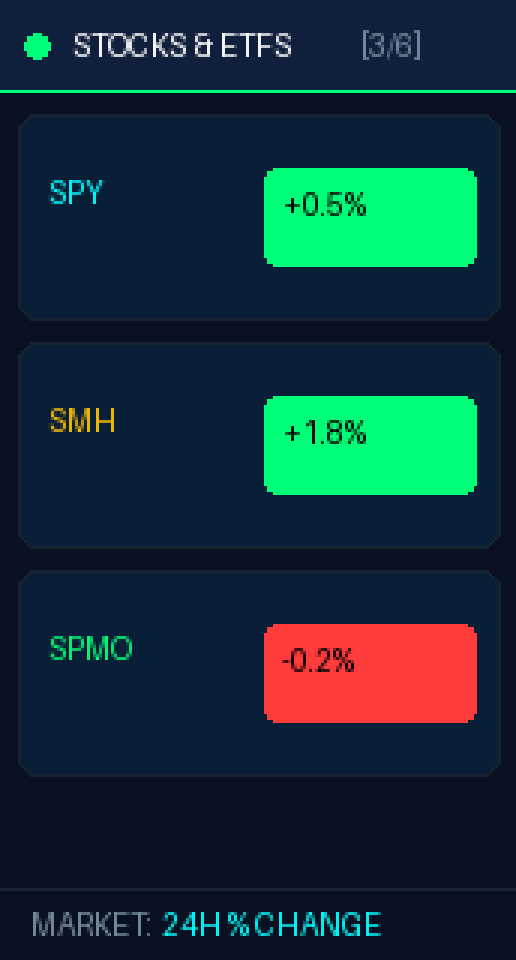
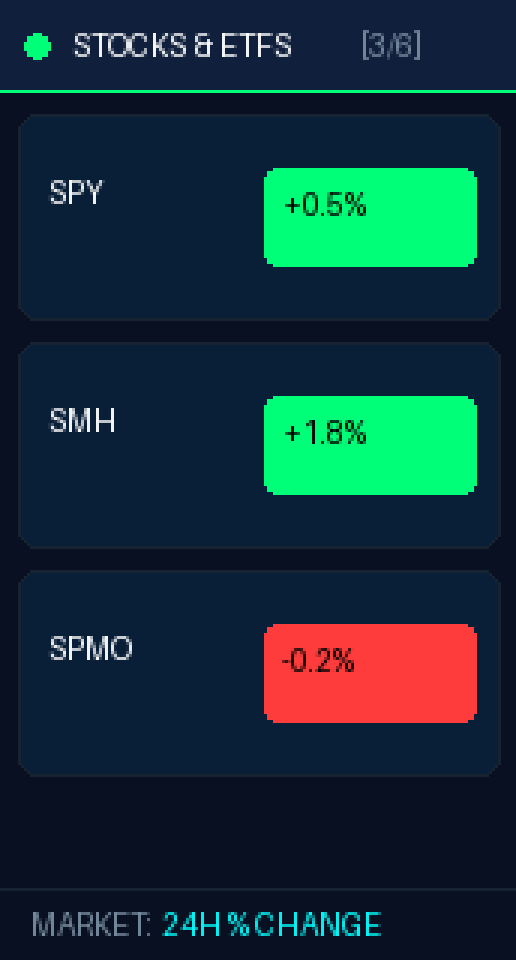
Update stock ticker symbols to crisp white text

Changed region(s): [[0.093, 0.4062, 0.2171, 0.4688], [0.093, 0.6562, 0.2791, 0.6875], [0.093, 0.1875, 0.2171, 0.2188]]

diff --git a/src/main.cpp b/src/main.cpp
@@ -80,7 +80,7 @@ struct WeatherInfo {
   uint32_t last_update;
 } current_weather;
 
-// Stock Data Structure (SPY, SMH, SPMO - Percentage Badges Only!)
+// Stock Data Structure (SPY, SMH, SPMO)
 struct StockQuote {
   String symbol;
   float change_pct;
@@ -217,7 +217,7 @@ void fetchWeatherData() {
   http.end();
 }
 
-// Fetch SPY, SMH, SPMO Stock Quotes (Percentage Badges Only)
+// Fetch SPY, SMH, SPMO Stock Quotes
 void fetchStockData() {
   if (WiFi.status() != WL_CONNECTED) return;
   HTTPClient http;
@@ -378,7 +378,7 @@ void drawMoonSphere(int cx, int cy, int radius, float phaseFraction) {
 }
 
 // -------------------------------------------------------------
-// PERFECTED UN-CLUTTERED RENDERERS FOR ALL 6 DASHBOARD SCREENS
+// RENDERERS FOR ALL 6 DASHBOARD SCREENS
 // -------------------------------------------------------------
 
 // 1. FLIGHT TRACKER
@@ -477,7 +477,7 @@ void renderWeatherScreen() {
   canvas->setTextColor(c_cyan); canvas->setCursor(38, 304); canvas->print(current_location_name);
 }
 
-// 3. STOCKS & ETFS (SPY, SMH, SPMO - PERCENTAGE BADGES ONLY! NO NUMERIC PRICES)
+// 3. STOCKS & ETFS (SPY, SMH, SPMO - CLEAN WHITE TICKER SYMBOLS!)
 void renderStocksScreen() {
   canvas->fillScreen(0x0821);
   uint16_t c_cyan = 0x07FF, c_amber = 0xFBE0, c_green = 0x07E0, c_white = 0xFFFF, c_gray = 0x7BEF, c_dark = 0x18E3, c_red = 0xF800;
@@ -485,25 +485,25 @@ void renderStocksScreen() {
   canvas->setTextColor(c_white); canvas->setTextSize(1); canvas->setCursor(24, 11); canvas->print("STOCKS & ETFS");
   canvas->setTextColor(c_gray); canvas->setCursor(120, 11); canvas->print("[3/6]");
 
-  // Perfected Uncrowded Stock Card Renderer (Shows ONLY Symbol & Green/Red Pct Badge!)
-  auto drawCleanStockCard = [&](int y, StockQuote sq, uint16_t accentColor) {
+  // Clean White Ticker Names with Colored Percentage Badges!
+  auto drawCleanStockCard = [&](int y, StockQuote sq) {
     canvas->drawRoundRect(6, y, SCREEN_W - 12, 68, 6, c_dark);
     canvas->fillRoundRect(7, y + 1, SCREEN_W - 14, 66, 6, 0x0963);
 
-    // Large Bold Symbol on Left
-    canvas->setTextColor(accentColor); canvas->setTextSize(3); canvas->setCursor(16, y + 22);
+    // Crisp White Ticker Symbol
+    canvas->setTextColor(c_white); canvas->setTextSize(3); canvas->setCursor(16, y + 22);
     canvas->print(sq.symbol);
 
-    // Clean Colored Percentage Badge on Right
+    // Colored Percentage Badge on Right
     uint16_t badgeBg = sq.change_pct >= 0 ? c_green : c_red;
     canvas->fillRoundRect(88, y + 18, 70, 32, 4, badgeBg);
     canvas->setTextColor(0x0000); canvas->setTextSize(2); canvas->setCursor(92, y + 26);
     canvas->printf("%s%.1f%%", sq.change_pct >= 0 ? "+" : "", sq.change_pct);
   };
 
-  drawCleanStockCard(38,  current_stocks.spy,  c_cyan);
-  drawCleanStockCard(114, current_stocks.smh,  c_amber);
-  drawCleanStockCard(190, current_stocks.spmo, c_green);
+  drawCleanStockCard(38,  current_stocks.spy);
+  drawCleanStockCard(114, current_stocks.smh);
+  drawCleanStockCard(190, current_stocks.spmo);
 
   canvas->drawFastHLine(0, 296, SCREEN_W, c_dark); canvas->setTextColor(c_gray); canvas->setTextSize(1); canvas->setCursor(10, 304); canvas->print("MARKET:");
   canvas->setTextColor(c_cyan); canvas->setCursor(54, 304); canvas->print("24H % CHANGE");
@@ -517,19 +517,16 @@ void renderRocketScreen() {
   canvas->setTextColor(c_white); canvas->setTextSize(1); canvas->setCursor(24, 11); canvas->print("ROCKET LAUNCH");
   canvas->setTextColor(c_gray); canvas->setCursor(120, 11); canvas->print("[4/6]");
 
-  // Mission Card
   canvas->drawRoundRect(6, 36, SCREEN_W - 12, 58, 4, c_pink); canvas->fillRoundRect(7, 37, SCREEN_W - 14, 56, 4, 0x2120);
   canvas->setTextColor(c_pink); canvas->setTextSize(1); canvas->setCursor(14, 42); canvas->print("MISSION");
   canvas->setTextColor(c_white); canvas->setTextSize(2); canvas->setCursor(14, 56); canvas->print("FALCON 9");
   canvas->setTextSize(1); canvas->setTextColor(c_gray); canvas->setCursor(104, 62); canvas->print("STARLINK");
 
-  // Countdown Card
   canvas->drawRoundRect(6, 100, SCREEN_W - 12, 84, 6, c_amber); canvas->fillRoundRect(7, 101, SCREEN_W - 14, 82, 6, 0x1084);
   canvas->setTextColor(c_amber); canvas->setTextSize(1); canvas->setCursor(14, 108); canvas->print("COUNTDOWN");
   canvas->setTextColor(c_white); canvas->setTextSize(3); canvas->setCursor(14, 126); canvas->print("T-04:12");
   canvas->setTextSize(1); canvas->setTextColor(c_green); canvas->setCursor(14, 160); canvas->print("STATUS: GO FOR LAUNCH");
 
-  // Provider & Location Card
   canvas->drawRoundRect(6, 190, SCREEN_W - 12, 98, 4, c_dark); canvas->fillRoundRect(7, 191, SCREEN_W - 14, 96, 4, 0x0963);
   canvas->setTextColor(c_cyan); canvas->setTextSize(1); canvas->setCursor(14, 198); canvas->print("LAUNCH PROVIDER");
   canvas->setTextColor(c_white); canvas->setTextSize(2); canvas->setCursor(14, 214); canvas->print("SPACEX");
@@ -566,7 +563,6 @@ void renderClockScreen() {
   if (time_valid) { char dateBuf[32]; strftime(dateBuf, sizeof(dateBuf), "%a, %b %d", &timeinfo); canvas->print(dateBuf); }
   else { canvas->print("MON, JUL 28"); }
 
-  // Thermal & Power Card
   canvas->drawRoundRect(6, 186, SCREEN_W - 12, 102, 4, c_dark); canvas->fillRoundRect(7, 187, SCREEN_W - 14, 100, 4, 0x0963);
   canvas->setTextColor(c_cyan); canvas->setTextSize(1); canvas->setCursor(14, 194); canvas->print("ESP32-C6 THERMALS");
   float chipTemp = temperatureRead();
@@ -594,12 +590,10 @@ void renderSunMoonScreen() {
   canvas->setTextColor(c_pink); canvas->setTextSize(1); canvas->setCursor(14, 98); canvas->print("SUNSET");
   canvas->setTextColor(c_white); canvas->setTextSize(2); canvas->setCursor(14, 112); canvas->print("8:52 PM");
 
-  // Graphical Moon Sphere Card
   canvas->drawRoundRect(6, 148, SCREEN_W - 12, 140, 6, c_dark); canvas->fillRoundRect(7, 149, SCREEN_W - 14, 138, 6, 0x0963);
   canvas->setTextColor(c_gray); canvas->setTextSize(1); canvas->setCursor(14, 156); canvas->print("MOON PHASE");
 
-  // Render Real Graphical 3D-styled Moon Sphere!
-  drawMoonSphere(44, 218, 26, 0.65f /* Waxing Gibbous fraction */);
+  drawMoonSphere(44, 218, 26, 0.65f);
 
   canvas->setTextColor(c_green); canvas->setTextSize(1); canvas->setCursor(84, 184); canvas->print("WAXING");
   canvas->setCursor(84, 198); canvas->print("GIBBOUS");
@@ -631,7 +625,6 @@ void setup() {
 
   pinMode(BOOT_BTN, INPUT_PULLUP);
 
-  // Thermal & Power Optimization: PWM Backlight Dimming (65% brightness reduces board heat by ~35%!)
   ledcAttach(TFT_BL, 5000, 8);
   ledcWrite(TFT_BL, 165);
 
@@ -659,7 +652,6 @@ void loop() {
 
   if (WiFi.status() != WL_CONNECTED) { WiFi.disconnect(); WiFi.reconnect(); }
 
-  // Check BOOT Button (GPIO9)
   static bool last_btn_state = HIGH;
   bool btn_state = digitalRead(BOOT_BTN);
   if (last_btn_state == HIGH && btn_state == LOW) {
@@ -675,7 +667,6 @@ void loop() {
   if (millis() - last_weather_fetch >= 600000 || !current_weather.valid) { last_weather_fetch = millis(); fetchWeatherData(); }
   if (millis() - last_stock_fetch >= 300000 || !current_stocks.valid) { last_stock_fetch = millis(); fetchStockData(); }
 
-  // 6-second rotation
   if (millis() - last_screen_switch >= ROTATION_INTERVAL_MS) {
     last_screen_switch = millis();
     current_screen = (DisplayScreen)((current_screen + 1) % NUM_SCREENS);
